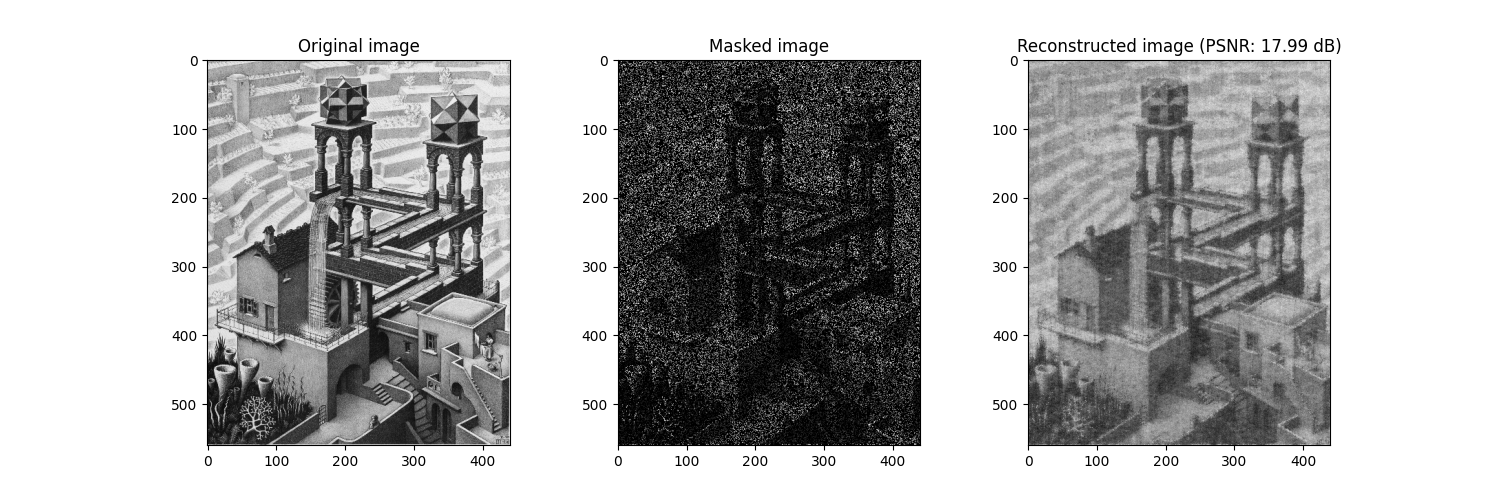
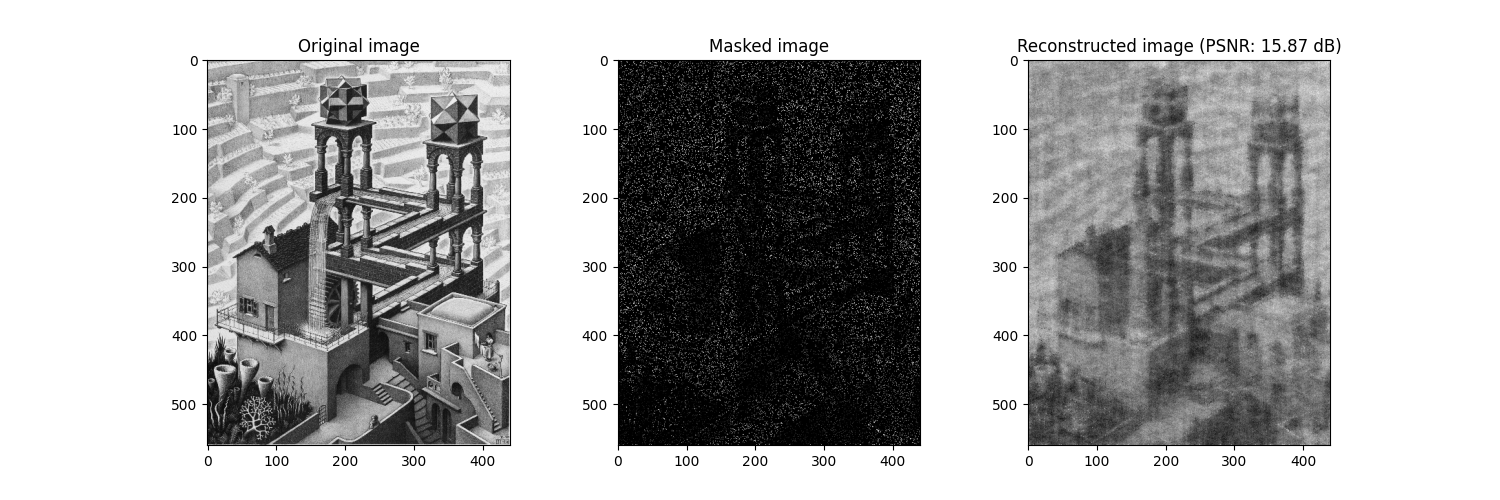
DCT with less samples

diff --git a/README.md b/README.md
@@ -11,7 +11,7 @@ The implementation of the wavelets is taken from [jax-wavelets](https://github.c
 Given a sparse sensing operator $$\Phi$$, we find a sparse representation $$\theta$$ of the image $$x$$ transformed by a universal transform basis $$\Psi$$, i.e. $$x = \Psi(\theta)$$.
 Finding the optimal $$\theta^{\star}$$ is equivalent to solving the LASSO regression with a regularization weight $$\lambda$$:
 
-$$\theta^\star = \arg \min_{\theta} \parallel \Phi(\Psi(\theta)) - \Phi(x) \parallel_2^2 + \lambda ||\theta||_1$$  
+$$\theta^\star = \arg \min_{\theta} \parallel \Phi(\Psi(\theta)) - \Phi(x) \parallel_2^2 + \lambda \parallel \theta \parallel_1$$  
 
 We solve this problem using the implementation of the [FISTA](https://epubs.siam.org/doi/10.1137/080716542) algorithm in ```jaxopt```.
 
@@ -31,6 +31,6 @@ Example using Daubechies wavelet (6) with 25% of samples.
 
 ![alt text](example_wavelet.png)
 
-Example using Discrete Cosine Transform with 25% of samples. 
+Example using Discrete Cosine Transform with 10% of samples. 
 
 ![alt text](example_dct.png)
